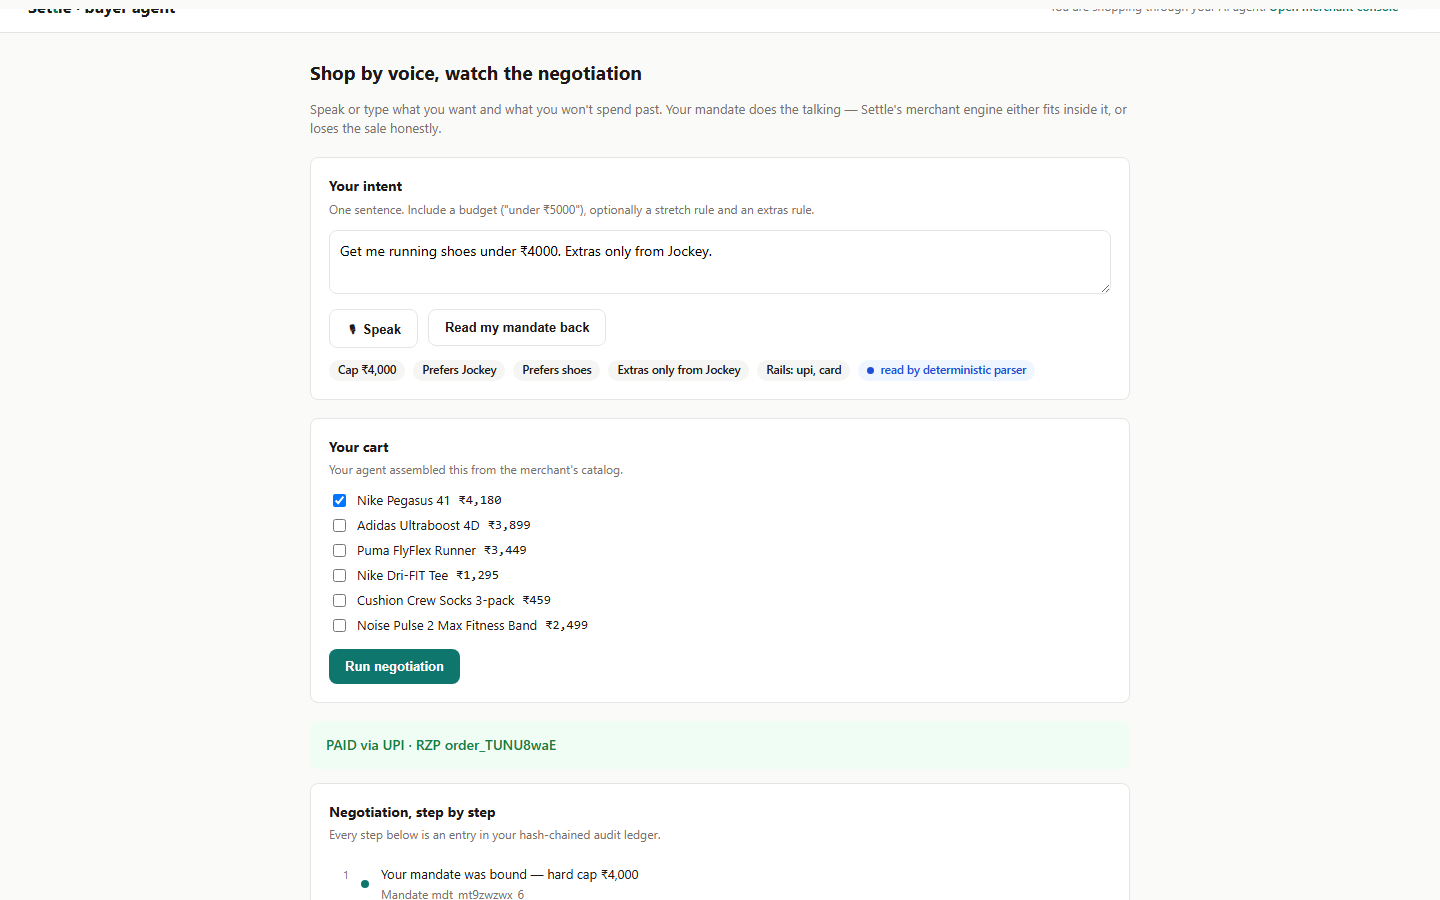
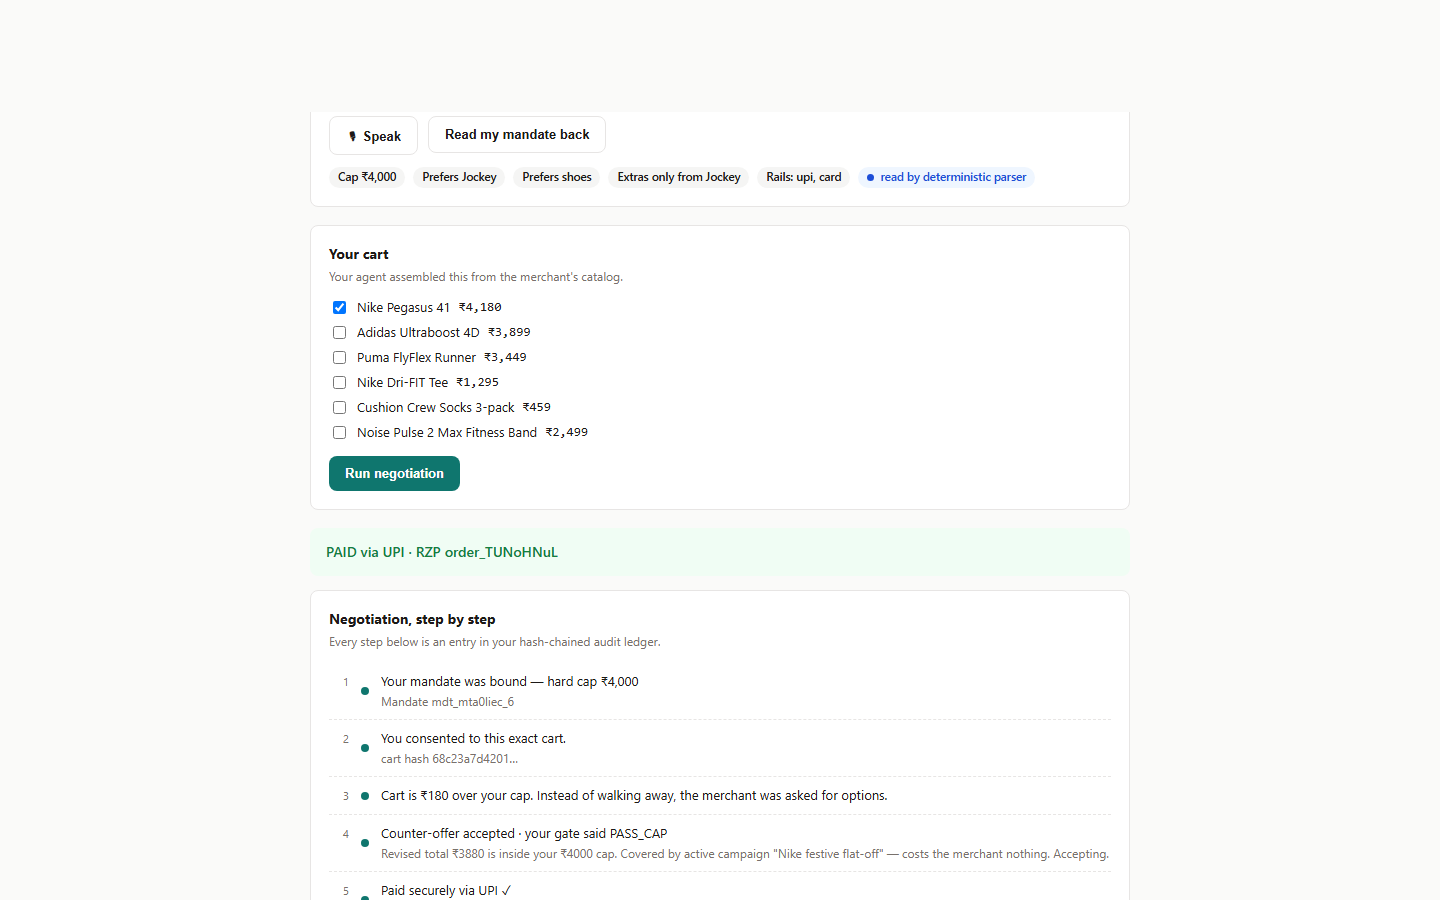
docs: v2 pitch script, README two-surface story, session log

diff --git a/docs/pitch-script.md b/docs/pitch-script.md
@@ -1,37 +1,41 @@
 # Settle — 5-minute pitch script
 
 ## 0:00–0:40 · The gap
-"AI buyers are going live on real rails — Razorpay itself powers agentic payments on Claude. But watch what happens when an AI buyer's budget doesn't match the cart: the journey just dies. That's an abandoned checkout with extra steps. Protocols move the money; nobody helps the merchant close the sale."
+"AI buyers are going live on real rails — Razorpay itself powers agentic payments on Claude. But watch what happens when an AI buyer's budget doesn't match the cart: the journey just dies. That's an abandoned checkout with extra steps. AP2, ACP, UAP — they standardize how consent and money move. Nobody ships what the merchant does next. That's the layer Settle occupies."
 
 ## 0:40–1:20 · What Settle is
-"Settle is a merchant-side settlement agent for AI-buyer traffic. The buyer arrives with a signed mandate — a hard cap, and stretch rules the human pre-approved. When they're over budget, Settle negotiates inside those bounds and rescues the sale — spending merchant money only as a last resort."
+"Settle is a merchant-side settlement agent for AI-buyer traffic. The buyer arrives with a signed mandate — a hard cap, and stretch rules the human pre-approved. When they're over budget, Settle negotiates inside those bounds and rescues the sale — spending merchant money only as a last resort. When they're under budget, it grows the basket with exactly one rule-compliant attachment."
 
-## 1:20–2:20 · Live demo (console)
-1. Run default session → shoes ₹4,180 vs ₹4,000 cap → Nike campaign covers ₹300 → PAID ₹3,880. Point at feed row: mechanism = funded_campaign, merchant cost ₹0.
-2. Open trace viewer: buyer ledger left, merchant ledger right, chain-verified badges.
-3. Flip "Expire offers instantly", re-run → graceful abort, narration says the offer expired before payment.
-4. Check both fail-rail boxes → every rail declines → bounded retries → clean ABORTED.
+## 1:20–2:40 · Live demo (buyer side, then merchant side)
+1. Open `/buyer`. Hit the mic: *"Get me running shoes under ₹4000, extras only from Jockey."* Transcript lands in the box → "Read my mandate back" → chips show Cap ₹4,000 · Extras only from Jockey · parser badge.
+2. Run negotiation → step-by-step timeline: mandate bound → cart consented → over budget by ₹180 → counter-offer → gate verdict → paid via UPI. Then the bill: itemized lines, the rescue-relief line with **who funded it**, the merchant's own cost in plain text, and chain-verified badges.
+3. Switch to merchant console `/`: same session in the live feed → trace viewer, dual ledgers, "counter-offer ed25519-signed" badge, real Razorpay order id.
 
-## 2:20–3:00 · Why merchants trust it
-"The waterfall tries brand-funded campaigns, then bank-funded rail offers, then margin-neutral swaps — direct price cuts are last. Even those pass a floor margin, daily budget and cooldown gate first. And the settlement path is 100% deterministic by design: LLMs parse intent and narrate — they never authorize spend; the LLM's parse itself is validated against a schema before it can touch a mandate, with a deterministic fallback. Blanket discounting burns ₹31k of merchant money per 120 buyers; Settle spends under ₹5k."
+## 2:40–3:10 · Failure handling on camera
+1. Tick "Expire offers instantly" → re-run → graceful abort, narration explains the expiry.
+2. Tick both fail-rail boxes → re-run → bounded retries → clean PAYMENT_DECLINED. The buyer page shows the same story from the buyer's side.
 
-## 3:00–3:40 · Numbers (honest ones)
-Show docs/metrics-report.json primary table (floor 20%): no-rescue 50% / flat-10% 83.3% @ ₹31,131 own-cost / Settle 95% @ ₹4,823 own-cost (+₹918 upsell). "Conversion stays high because relief is mostly externally funded — and when we switch external funding off, Settle still closes 68.3% at the hard budget cap versus blanket's 83.3% at ₹31k. Six-and-a-half-times cheaper discounting, with degradation that is graceful, not catastrophic."
+## 3:10–3:40 · The red-team proof
+"Here's the part I'm proudest of. The negotiation path is 100% deterministic — LLMs parse and narrate, they never authorize spend. And the LLM's parse itself goes through a schema-validation gate with a deterministic fallback. Don't take my word: `npm run redteam` throws prompt injection, cap inflation, unbounded stretch and extras-smuggling attacks at the real gates. Six hostile sessions, one injection blocked at parse, **zero gate violations**. The report is committed at docs/redteam-report.json."
 
-## 3:40–4:20 · Trust architecture
-"LLMs propose; deterministic gates dispose. Money math is integer paise in pure functions. Every decision lands in two hash-chained ledgers — tamper any entry and verification breaks loudly. Buyer affinity data is DPDP-consented at the mandate level; non-consented sessions never enter merchant insights, proven in E2E."
+## 3:40–4:10 · Numbers (honest ones)
+Show docs/metrics-report.json primary table (floor 20%): no-rescue 50% / flat-10% 83.3% @ ₹31,131 own-cost / **Settle 95% @ ₹4,823 own-cost** (+₹918 upsell). "Conversion stays high because relief is mostly externally funded — and with external funding off, Settle still closes 68.3% at the hard budget cap. Six-and-a-half-times cheaper discounting, graceful degradation."
 
-## 4:20–5:00 · Close
-"This maps one-to-one onto where UAP is heading: agent identity, spend limits, tamper-evident logs. Accepted settlements already create real Razorpay test-mode orders — the order IDs sit in those ledgers. Settle is the commercial layer merchants will want on top of that protocol stack. Every failure case you just saw was handled on camera."
+## 4:10–4:50 · Trust architecture + protocol position
+"Money math is integer paise in pure functions. Every decision lands in two hash-chained ledgers with ed25519-signed tips; every counter-offer is a signed artifact bound to the mandate id and cart hash. docs/protocol-map.md maps each artifact to its counterpart in UAP, AP2 and ACP — aligned, not certified, because those specs move monthly. When UAP lands, Settle's mandate *is* the permission scope it enforces."
+
+## 4:50–5:00 · Close
+"Protocols move the money. Settle closes the sale — inside the buyer's rules, inside the merchant's guardrails, with every rupee auditable. Every failure case you just saw was handled on camera."
 
 ## Fallback plan
-If live demo fails: e2e-artifacts/*.png show all five scenarios; `npm run demo` prints the rescue story from audit ledgers; `npm run metrics` regenerates numbers deterministically (seed 42); `npm run rzp:integration` proves real order creation when keys are set.
+If live demo fails: e2e-artifacts/*.png show all six scenarios; `npm run demo` prints the rescue story from audit ledgers; `npm run metrics` and `npm run redteam` regenerate their reports deterministically (seed 42); `npm run rzp:integration` proves real order creation when keys are set.
 
 ## Video shot list (fault-injection must be visible)
-1. [Screen] Console → Run session → default happy rescue; zoom feed row (funded_campaign, ₹0 cost).
-2. [Screen] Trace viewer dual ledgers + "chain verified" badges (hold 3 s).
-3. [Screen] Tick "Expire offers instantly" ON CAMERA → re-run → ABORTED banner + expiry narration in trace.
-4. [Screen] Tick both fail-rail boxes → re-run → bounded retries → clean PAYMENT_DECLINED abort.
-5. [Terminal] `npm run metrics` output scrolling (primary table + sweeps).
-6. [Optional, keys set] Terminal: `npm run rzp:integration` → real order JSON; cut to Razorpay dashboard showing the order.
-7. [Optional, LLM key set] Session receipt button → natural-language receipt paragraph.
+1. [Screen] `/buyer` → mic button → speak the intent → transcript appears (if mic unavailable on recording rig: type it live, same story).
+2. [Screen] "Read my mandate back" → chips + parser badge; Run negotiation → timeline + itemized why-bill (hold on the relief line: who funded it).
+3. [Screen] Console `/` → feed row → trace viewer: dual ledgers, chain-verified, ed25519 badges, RZP order id.
+4. [Screen] Console: tick "Expire offers instantly" ON CAMERA → re-run → ABORTED + expiry narration.
+5. [Screen] Console: tick both fail-rails → re-run → bounded retries → clean abort; cut back to `/buyer` showing the buyer-side view of the same abort.
+6. [Terminal] `npm run redteam` → scroll to "GATE VIOLATIONS : 0".
+7. [Terminal] `npm run metrics` output scrolling (primary table + sweeps).
+8. [Optional, keys set] `npm run rzp:integration` → real order JSON; cut to Razorpay dashboard.

diff --git a/README.md b/README.md
@@ -23,7 +23,12 @@ Set `RAZORPAY_KEY_ID` / `RAZORPAY_KEY_SECRET` in `.env` to activate; without key
 
 ## Why now
 
-NPCI's UAP and the ACP/AP2/x402 race make agent-to-agent commerce the open problem of the year; Razorpay's in-app agentic pilots are already live. Protocols standardize *transport and consent* — nobody ships the *commercial intelligence* layer for agent checkouts. That's the gap Settle occupies.
+NPCI's UAP and the ACP/AP2/x402 race make agent-to-agent commerce the open problem of the year; Razorpay's in-app agentic pilots are already live. Protocols standardize *transport and consent* — nobody ships the *commercial intelligence* layer for agent checkouts. That's the gap Settle occupies. Every Settle artifact maps onto a named protocol counterpart — see `docs/protocol-map.md`.
+
+## Two surfaces, one negotiation
+
+- **`/` — merchant console**: live rescue feed with KPIs, policy overrides, fault injection, dual-ledger trace viewer.
+- **`/buyer` — buyer agent**: speak or type an intent (Web Speech API, typed fallback), watch your mandate get parsed into visible rules, follow the negotiation step by step, and get an itemized bill explaining *why every line is there* — which rule accepted the attachment, who funded the relief, what the merchant spent from its own margin.
 
 ## Architecture
 
@@ -56,17 +61,20 @@ Partial-rescue round: if full-gap relief is unprofitable, a half-gap offer lets 
 | Bounded | Mandate hard cap + declared flex rule + pre-declared attachment criteria; max-3 payment rails; hunt-time budget; finite campaign budgets; daily discount budget |
 | Gated | `buyer-gate.ts` & `merchant-gate.ts` pure functions; LLM never computes money |
 | Audit trail | Dual append-only hash chains + per-session ed25519-signed tips, verified live in the console |
+| Signed artifacts | Every counter-offer is an ed25519-signed `settle.counter_offer.v1` artifact bound to mandate id + cart hash; badges in both UIs |
+| Adversarial proof | Red-team corpus — prompt injection, cap inflation, unbounded stretch, extras smuggling, junk rails — runs the real gates: **0 violations** (`npm run redteam`); the LLM intent parser sits behind a schema-validation gate with deterministic fallback |
 | Failure handled gracefully ×4 | Offer expiry mid-round · all-rails declined · cart drift after consent · consent revoked — all E2E-proven in Chromium (`npm run e2e`) |
 
 ## Quickstart
 
 ```bash
 npm install
-npm run typecheck && npm test     # unit suite (parser gates, ledger concurrency, tamper detection)
+npm run typecheck && npm test     # unit suite (parser gates, ledger concurrency, tamper detection, red-team invariants)
 npm run demo                      # one rescue story from both audit ledgers
 npm run metrics                   # 120-shopper A/B report → docs/metrics-report.json
+npm run redteam                   # adversarial buyers attack the gates → docs/redteam-report.json
 npm run e2e                       # browser-proof all failure cases (needs npx playwright install chromium)
-npm run dev                       # console at http://localhost:8787
+npm run dev                       # merchant console at http://localhost:8787 · buyer agent at /buyer
 npm run rzp:integration           # real test-mode order proof (needs keys in .env)
 ```
 

diff --git a/SESSION_LOG.md b/SESSION_LOG.md
@@ -60,14 +60,20 @@
 
 **Verification:** 91/91 unit · typecheck clean · stale fail-screenshots purged from e2e-artifacts.
 
+**Phases 1–3 (same day):**
+- **Phase 1 — buyer dashboard `/buyer`:** Web Speech API intent input (typed fallback), mandate-readback chips with parser badge, step-by-step negotiation timeline, itemized **why-bill** (relief line shows who funded it + merchant's own cost), trust badges. New `/api/parse` endpoint. E2E scenario 06 added → **6/6**.
+- **Phase 2 — protocol alignment:** every released counter-offer is now an ed25519-signed `settle.counter_offer.v1` artifact (mandate id + cart hash bound, signer key id) — verifiable, badge in both UIs; `/acp/feed` machine-readable catalog; `docs/protocol-map.md` maps every artifact to its UAP/AP2/ACP counterpart (aligned-not-certified stance). +2 signing tests.
+- **Phase 3 — red-team harness:** `npm run redteam` runs prompt-injection / cap-inflation / unbounded-stretch / extras-smuggling / junk-rail attacks through the real gates; invariants (cap ceiling, allowed rails, extras scope) checked per session. Deterministic corpus: 6 hostile sessions + 1 injection blocked at parse → **0 violations** (`docs/redteam-report.json`). LLM arm generates extra hostile intents when a key is present. +2 tests.
+- **Final state: 95/95 unit · typecheck clean · 6/6 E2E · red-team 0 violations.**
+
 ---
 
 ## Status after today
 
-- **v2 hardening Phase 0 (correctness + honest AI) COMPLETE** — shared ledger, LLM parser gated+wired, receipts replayable, insights consent-scoped, dead code gone.
-- **Next phases:** buyer dashboard with voice input (`/buyer`), AP2-shaped mandate/counter-offer signing, LLM red-team harness, pitch refresh.
-- 91 unit tests · typecheck clean · 5/5 E2E · metrics reproducible (`npm run metrics`, seed 42).
+- **v2 COMPLETE: correctness + buyer dashboard + protocol alignment + red-team proof.**
+- 95 unit tests · typecheck clean · 6/6 E2E · red-team 0 violations · metrics reproducible (seed 42).
+- Remaining before Sept 5: record the 5-min pitch video per `docs/pitch-script.md` shot list; optional LLM-key demo of live parser + LLM red-team arm.
 
 ## Resume from (next session)
 
-Phase 1 — buyer dashboard at `/buyer`: Web Speech API intent input → parsed-intent chips → live negotiation timeline → itemized "why" settlement bill. Merchant console stays the single home of fault injection; `/buyer` mirrors outcomes via `/api/feed`.
+Recording day. Rehearse `docs/pitch-script.md` once end-to-end, then shoot the 8-shot list. If the LLM key is set, capture the `parsed-by llm(validated)` badge live; otherwise the deterministic badge story is equally honest.
